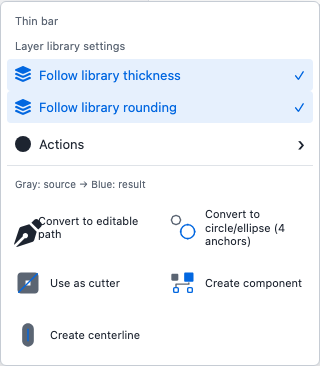
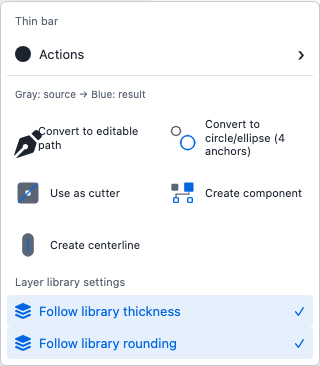
Initialize centerline width from source and prioritize Actions

diff --git a/src/shape-centerline.js b/src/shape-centerline.js
@@ -43,19 +43,45 @@ export function recoverBar(source,core) {
   return {node:{op:'union',name:'Recovered bar centerline',children:lines},stroke:Math.round(widths[0]*1e6)/1e6};
 }
 
+// Measure ink across inward boundary normals, stopping at the first opposing
+// boundary. This estimates local thickness, not the overall bounding-box size.
+export function estimateSourceWidth(source,core) {
+  const resolved=core.resolve(source)[0];if(resolved?.error||!resolved?.d)return null;
+  const ink=new paper.CompoundPath({pathData:resolved.d,insert:false}),widths=[];
+  try {
+    const contours=ink.children.filter(p=>p.closed&&p.length>1e-6);if(!contours.length||contours.length>64)return null;
+    const reach=Math.hypot(ink.bounds.width,ink.bounds.height)*2,epsilon=Math.max(1e-5,reach*1e-6),samples=Math.max(8,Math.min(64,Math.floor(512/contours.length)));
+    for(const contour of contours)for(let i=0;i<samples;i++) {
+      const at=contour.length*(i+.5)/samples,point=contour.getPointAt(at),normal=contour.getNormalAt(at);if(!normal||normal.isZero())continue;
+      for(const sign of [1,-1]) {
+        const direction=normal.normalize().multiply(sign);if(!ink.contains(point.add(direction.multiply(epsilon))))continue;
+        const ray=new paper.Path.Line({from:point,to:point.add(direction.multiply(reach)),insert:false});
+        try{const distances=ray.getIntersections(ink).map(hit=>hit.point.subtract(point).dot(direction)).filter(d=>d>epsilon*2).sort((a,b)=>a-b),width=distances[0];
+          if(Number.isFinite(width)&&ink.contains(point.add(direction.multiply(width/2))))widths.push(width);
+        }finally{ray.remove();}
+        break;
+      }
+    }
+    if(widths.length<8)return null; widths.sort((a,b)=>a-b);
+    const stroke=Math.round(widths[Math.floor(widths.length/2)]*1e6)/1e6;
+    if(stroke<.1||stroke>8)return null;
+    return {stroke,variable:widths[Math.floor(widths.length*.75)]-widths[Math.floor(widths.length*.25)]>stroke*.15};
+  }finally{ink.remove();}
+}
+
 export function createShapeCenterline({root,core,getGlyph,apply,status}) {
   const dialog=document.createElement('dialog');dialog.className='import-dialog centerline-dialog';dialog.setAttribute('aria-labelledby','centerlineHeading');root.appendChild(dialog);
-  let source,snapshot,layer,bar;
+  let source,snapshot,layer,bar,measurement;
   const make=(tag,text,parent,attrs={})=>{const el=document.createElement(tag);el.textContent=text;for(const [k,v]of Object.entries(attrs))el.setAttribute(k,v);parent.appendChild(el);return el;};
   make('h2','Create centerline',dialog,{id:'centerlineHeading'});
   make('p','Recover a rounded bar as a stroke, or review an inset contour for other shapes. Adds a new layer; source stays unchanged.',dialog,{id:'centerlineHelp'});dialog.setAttribute('aria-describedby','centerlineHelp');
   const drawings=make('div','',dialog,{class:'review-drawings'}),original=make('div','',drawings,{'aria-label':'Source shape',class:'review-drawing'}),preview=make('div','',drawings,{'aria-label':'Centerline candidate',class:'review-drawing'});
   const methodLabel=make('label','Method',dialog,{class:'studio-field'}),method=make('select','',methodLabel,{'aria-label':'Centerline method'});make('option','Recover rounded bar',method,{value:'bar'});make('option','Inset contour',method,{value:'inset'});method.onchange=()=>{inputs.inset.disabled=method.value==='bar';update();};
-  const inputs={};for(const [key,label,min,max]of [['inset','Inset',0,null],['stroke','Stroke',.1,8]]){const row=make('label',label,dialog,{class:'studio-field'});inputs[key]=make('input','',row,{type:'number',min,step:.01,'aria-label':`Centerline ${key}`});if(max!==null)inputs[key].max=max;inputs[key].onchange=update;}
+  const inputs={};for(const [key,label,min,max]of [['inset','Inset',0,null],['stroke','Stroke',.1,8]]){const row=make('label',label,dialog,{class:'studio-field'});inputs[key]=make('input','',row,{type:'number',min,step:'any','data-scrub-step':.01,'aria-label':`Centerline ${key}`});if(max!==null)inputs[key].max=max;inputs[key].onchange=update;}
   const note=make('p','',dialog,{role:'status'}),buttons=make('div','',dialog,{class:'row'}),cancel=make('button','Cancel',buttons,{type:'button',class:'btn'}),accept=make('button','Add centerline layer',buttons,{type:'button',class:'btn'});
   const settings=()=>({inset:inputs.inset.valueAsNumber,stroke:inputs.stroke.valueAsNumber});
-  function update(){layer=null;accept.disabled=true;try{for(const input of Object.values(inputs))if(!input.checkValidity()||!Number.isFinite(input.valueAsNumber))throw Error('Enter a valid inset and stroke width.');layer=method.value==='bar'?{id:crypto.randomUUID(),name:`${source.name} centerline`,role:source.layers[0].role,color:source.layers[0].color,paint:'stroke',symmetry:false,rounding:0,endRounding:0,strokeWidth:settings().stroke,node:structuredClone(bar.node)}:centerlineLayer(source,core,settings(),crypto.randomUUID());preview.innerHTML=core.toSVG({...source,setStyle:{rounding:0,endRounding:0},symmetry:{rotate:1},layers:[layer]},{mode:'baked',size:192});note.textContent=method.value==='bar'?'Recovered rounded-bar axis. Review stroke width.':'Boundary offset, not a medial-axis trace. Adjust inset and stroke; narrow contours can collapse.';accept.disabled=false;}catch(error){preview.replaceChildren();note.textContent=error.message;}}
+  function update(){layer=null;accept.disabled=true;try{for(const input of Object.values(inputs))if(!input.checkValidity()||!Number.isFinite(input.valueAsNumber))throw Error('Enter a valid inset and stroke width.');layer=method.value==='bar'?{id:crypto.randomUUID(),name:`${source.name} centerline`,role:source.layers[0].role,color:source.layers[0].color,paint:'stroke',symmetry:false,rounding:0,endRounding:0,strokeWidth:settings().stroke,node:structuredClone(bar.node)}:centerlineLayer(source,core,settings(),crypto.randomUUID());preview.innerHTML=core.toSVG({...source,setStyle:{rounding:0,endRounding:0},symmetry:{rotate:1},layers:[layer]},{mode:'baked',size:192});note.textContent=(bar?`Detected source width ${bar.stroke}. `:measurement?`Estimated source width ${measurement.stroke}${measurement.variable?' (variable thickness)':''}; review the fit. `:'Source width could not be estimated; set stroke manually. ')+(method.value==='bar'?'Recovered rounded-bar axis.':'Boundary offset, not a medial-axis trace; narrow contours can collapse.')+' New layer is excluded from library line width.';accept.disabled=false;}catch(error){preview.replaceChildren();note.textContent=error.message;}}
   cancel.onclick=()=>dialog.close();
   accept.onclick=()=>{try{if(JSON.stringify(getGlyph())!==snapshot)throw Error('Artwork changed; reopen Create centerline.');if(!layer)throw Error('Recompute a valid candidate first.');apply(layer);dialog.close();status('Added an independent centerline layer. Source unchanged; hide the source layer to inspect it. Undo removes the candidate.');}catch(error){note.textContent=error.message;accept.disabled=true;}};
-  return {open(selection){source=centerlineSource(getGlyph(),selection,core);if(!source)throw Error('Select a visible filled shape.');delete source.referenceImage;snapshot=JSON.stringify(getGlyph());const width=getGlyph().strokeOverride??getGlyph().setStyle?.thickness??getGlyph().weight??1.2;bar=recoverBar(source,core);method.querySelector('[value=bar]').disabled=!bar;method.value=bar?'bar':'inset';inputs.inset.disabled=!!bar;inputs.inset.value=width/2;inputs.stroke.value=bar?.stroke??width;original.innerHTML=core.toSVG(source,{mode:'baked',mono:true,size:192});update();dialog.showModal();},dispose(){dialog.remove();}};
+  return {open(selection){source=centerlineSource(getGlyph(),selection,core);if(!source)throw Error('Select a visible filled shape.');delete source.referenceImage;snapshot=JSON.stringify(getGlyph());const width=getGlyph().strokeOverride??getGlyph().setStyle?.thickness??getGlyph().weight??1.2;bar=recoverBar(source,core);measurement=bar?null:estimateSourceWidth(source,core);method.querySelector('[value=bar]').disabled=!bar;method.value=bar?'bar':'inset';inputs.inset.disabled=!!bar;const detected=bar?.stroke??measurement?.stroke??width;inputs.inset.value=detected/2;inputs.stroke.value=detected;original.innerHTML=core.toSVG(source,{mode:'baked',mono:true,size:192});update();dialog.showModal();},dispose(){dialog.remove();}};
 }

diff --git a/src/editor.js b/src/editor.js
@@ -1910,7 +1910,8 @@ function organizeActionsMenu() {
   const legend=document.createElement('div');legend.className='action-legend';legend.textContent='Gray: source → Blue: result';submenu.appendChild(legend);
   for(const child of actions){if(child.tagName==='BUTTON')child.classList.add('visual-action');submenu.appendChild(child);}
   toggle.onclick=()=>{const open=submenu.hidden;submenu.hidden=!open;toggle.setAttribute('aria-expanded',String(open));if(open){const bounds=itemMenu.getBoundingClientRect();itemMenu.style.top=Math.max(8,Math.min(bounds.top,window.innerHeight-bounds.height-8))+'px';submenu.querySelector('button:not(:disabled)')?.focus();}};
-  itemMenu.append(toggle,submenu);
+  itemMenu.insertBefore(toggle,itemMenu.firstElementChild.nextSibling);
+  itemMenu.insertBefore(submenu,toggle.nextSibling);
 }
 const treeKey = selection => `${selection.l}:${selection.p === null ? 'layer' : selection.p.join('.')}`;
 const treeRow = selection => root.querySelector(`[data-tree-key="${treeKey(selection)}"]`);
@@ -2471,6 +2472,7 @@ function field(parent, label, value, onInput, opts = {}) {
   if (opts.min != null) inp.min = opts.min;
   if (opts.max != null) inp.max = opts.max;
   if (opts.key) inp.dataset.key = opts.key;
+  if (opts.scrubStep) inp.dataset.scrubStep=opts.scrubStep;
   w.appendChild(inp); parent.appendChild(w); return inp;
 }
 function sub(parent, text, btns) { const d = document.createElement('div'); d.className = 'sub'; d.textContent = text; if (btns) btns.forEach(b => d.appendChild(b)); parent.appendChild(d); return d; }
@@ -2658,9 +2660,10 @@ function renderInspector() {
     field(g, 'role', L.role || 'primary', v => { L.role = v; }, { options: ['primary', 'secondary', 'accent'] });
     field(g, 'custom color (#hex)', L.color || '', value => { if (/^#[0-9a-f]{3}(?:[0-9a-f]{3})?$/i.test(value)) L.color = value; else if (!value.trim()) delete L.color; }, { text: true });
     field(g, 'paint', L.paint || 'stroke', v => { L.paint = v; }, { options: ['stroke', 'fill', 'both'] });
+    if(L.paint!=='fill')field(g,'exclude from library line width',L.strokeWidth!=null,v=>{if(v)L.strokeWidth=strokeWeight(S.glyph);else delete L.strokeWidth;},{check:true});
     if(L.rounding!=null)field(g,'layer corner rounding',L.rounding,v=>{L.rounding=v;},{min:0,step:.1});
     if(L.endRounding!=null)field(g,'layer end rounding',L.endRounding,v=>{L.endRounding=v;},{min:0,step:.1});
-    if(L.strokeWidth!=null)field(g,'layer stroke width',L.strokeWidth,v=>{L.strokeWidth=v;},{min:.1,max:8,step:.1});
+    if(L.strokeWidth!=null)field(g,'layer stroke width',L.strokeWidth,v=>{L.strokeWidth=v;},{min:.1,max:8,step:'any',scrubStep:.01});
     field(g, 'opacity', L.opacity == null ? 1 : L.opacity, v => { L.opacity = Math.max(0, Math.min(1, v)); }, { step: 0.05 });
     field(g, 'visible', L.visible !== false, v => { L.visible = v; }, { check: true });
     field(g, 'uses glyph symmetry', L.symmetry !== false, v => { if (v) delete L.symmetry; else L.symmetry = false; }, { check: true });
@@ -3525,7 +3528,7 @@ appStudio=createAppIconStudio({root:$('appIconStudio'),getGlyph:()=>S.glyph,getL
 const repairLocked=[...root.querySelectorAll('#componentsPanel,.library-panel,.set-settings,.io,#appIconStudio,#drawingMode,#exportSize,#hdrEdited,#revertBtn')];
 function repairWorking(glyph){S.glyph=clone(glyph);S.sel=[];S.selectedAnchors=[];S.anchor=null;S.sourceAnchor=null;S.iso=null;penDraft=null;penHover=null;penCloseHover=null;S.rt.weight=strokeWeight(S.glyph);S.rt.cap=S.glyph.strokeCap||'round';S.rt.join=S.glyph.strokeJoin||'round';}
 const fusionDialog=createFusionDialog({root,core,getGlyph:()=>S.glyph,apply:(selection,recipe)=>{getNode({...selection,p:selection.p||[]}).fusion=recipe;commit();refresh(true);renderLibrary();},status});
-const shapeCenterline=createShapeCenterline({root,core,getGlyph:()=>S.glyph,apply:layer=>{S.glyph.layers.push(layer);S.sel=[{l:S.glyph.layers.length-1,p:[]}];S.anchor=null;S.selectedAnchors=[];commit();refresh(true);},status});
+const shapeCenterline=createShapeCenterline({root,core,getGlyph:()=>S.glyph,apply:layer=>{S.glyph.layers.push(layer);S.sel=[{l:S.glyph.layers.length-1,p:null}];S.anchor=null;S.selectedAnchors=[];commit();refresh(true);},status});
 guidedRepair=createGuidedRepair({root,core,getGlyph:()=>S.glyph,getLibrary:()=>S.lib,getStyle:()=>S.libraryProperties?tokenStyle(S.libraryProperties):null,
   enter:glyph=>{repairContext={name:S.glyph.name,lastSnap,tool:S.tool,rt:clone(S.rt),original:S.show.original};closeGroupReview();root.querySelector('.stage').hidden=false;for(const el of repairLocked)el.inert=true;S.show.original=false;repairWorking(glyph);setTool('direct');setSaveState('draft');},
   leave:name=>{for(const el of repairLocked)el.inert=false;const context=repairContext;repairContext=null;S.show.original=context.original;S.rt=context.rt;lastSnap=context.lastSnap;loadGlyph(Math.max(0,idx(name||context.name)));setTool(context.tool);setSaveState('saved');},

diff --git a/tests/browser/action-language.spec.js b/tests/browser/action-language.spec.js
@@ -20,3 +20,16 @@ test('Actions keyboard entry and Escape return focus; invalid inset cannot publi
 test('a stale per-shape candidate cannot overwrite concurrent edits',async({page})=>{
  await setup(page);await page.locator('[data-tree-key="0:0"]').click({button:'right'});await actions(page);await page.getByRole('menuitem',{name:'Create centerline',exact:true}).click();await page.evaluate(()=>{const w=window.__gw;w.S.glyph.layers[1].node.x1=18;w.commit();w.refresh(true);});await page.getByRole('button',{name:'Add centerline layer',exact:true}).click();await expect(page.getByRole('dialog',{name:'Create centerline',exact:true})).toContainText('Artwork changed');expect(await page.evaluate(()=>window.__gw.S.glyph.layers.length)).toBe(2);expect(await page.evaluate(()=>window.__gw.S.glyph.layers[1].node.x1)).toBe(18);
 });
+test('centerline source width becomes visible excluded layer thickness; Actions comes first in Layers and Canvas menus',async({page})=>{
+ await setup(page);await page.locator('[data-tree-key="0:1"]').click({button:'right'});await expect(page.locator('#itemMenu > button').first()).toHaveAccessibleName('Actions');await actions(page);await page.getByRole('menuitem',{name:'Create centerline',exact:true}).click();
+ expect(Number(await page.getByLabel('Centerline stroke').inputValue())).toBeCloseTo(2.4,5);await expect(page.getByRole('dialog',{name:'Create centerline',exact:true})).toContainText('Detected source width 2.4');await page.getByRole('button',{name:'Add centerline layer',exact:true}).click();
+ await expect(page.getByLabel('layer stroke width',{exact:true})).toHaveValue('2.4');await expect(page.getByLabel('exclude from library line width',{exact:true})).toBeChecked();expect(await page.evaluate(()=>window.__gw.S.glyph.strokeOverride)).toBeUndefined();
+ await page.locator('[data-tree-key="2:layer"]').click({button:'right'});await expect(page.locator('#itemMenu > button').first()).toHaveAccessibleName('Actions');await expect(page.getByRole('menuitemcheckbox',{name:'Follow library thickness',exact:true})).toHaveAttribute('aria-checked','false');await page.keyboard.press('Escape');
+ await page.locator('#setThicknessEnabled').check();await page.locator('#setThickness').fill('3');await page.locator('#setThickness').press('Tab');await expect(page.locator('#gLayers path[stroke-width="2.4"]')).toHaveCount(1);await expect(page.locator('#gLayers path[stroke-width="3"]')).toHaveCount(1);
+ await page.evaluate(()=>{const w=window.__gw;w.S.sel=[{l:0,p:[1]}];w.refresh(true);});await page.locator('#canvas').press('Shift+F10');await expect(page.locator('#itemMenu > button').first()).toHaveAccessibleName('Actions');await page.keyboard.press('Escape');
+ await page.evaluate(()=>window.__gw.flushSaves());await page.reload();await page.waitForFunction(()=>window.__gw?.ready);expect(await page.evaluate(()=>window.__gw.S.glyph.layers[2].strokeWidth)).toBeCloseTo(2.4,5);await page.locator('[data-tree-key="2:layer"]').click();await page.getByLabel('exclude from library line width',{exact:true}).uncheck();await expect(page.locator('#gLayers path[stroke-width="3"]')).toHaveCount(2);await page.locator('#undoBtn').click();await expect(page.locator('#gLayers path[stroke-width="2.4"]')).toHaveCount(1);
+});
+test('inset centerline estimates ring thickness from source instead of inheriting the library weight',async({page})=>{
+ await ready(page);await page.evaluate(async()=>window.__gw.importLibraryText(JSON.stringify([{name:'ring-source',weight:3,layers:[{id:'ring',name:'Ring',paint:'fill',node:{op:'subtract',children:[{shape:'circle',cx:12,cy:12,r:6},{shape:'circle',cx:12,cy:12,r:4.6}]}}]}]),'ring.json','replace'));
+ await page.locator('[data-tree-key="0:"]').click({button:'right'});await actions(page);await page.getByRole('menuitem',{name:'Create centerline',exact:true}).click();await expect(page.getByLabel('Centerline method')).toHaveValue('inset');expect(Number(await page.getByLabel('Centerline stroke').inputValue())).toBeCloseTo(1.4,2);await page.getByRole('button',{name:'Add centerline layer',exact:true}).click();expect(await page.evaluate(()=>window.__gw.S.glyph.layers[1].strokeWidth)).toBeCloseTo(1.4,2);await expect(page.getByLabel('exclude from library line width',{exact:true})).toBeChecked();
+});

diff --git a/tests/shape-centerline.test.js b/tests/shape-centerline.test.js
@@ -1,4 +1,4 @@
-import test from 'node:test';import assert from 'node:assert/strict';import paper from 'paper';import {createGlyphCore} from '../src/glyph-core.js';import {centerlineSource,recoverBar,centerlineLayer} from '../src/shape-centerline.js';import {normalizeGlyph} from '../src/library-io.js';import {layerStyleGlyph} from '../src/stroke-weight.js';import {generateSolid} from '../src/solid-variants.js';
+import test from 'node:test';import assert from 'node:assert/strict';import paper from 'paper';import {createGlyphCore} from '../src/glyph-core.js';import {centerlineSource,recoverBar,centerlineLayer,estimateSourceWidth} from '../src/shape-centerline.js';import {normalizeGlyph} from '../src/library-io.js';import {layerStyleGlyph} from '../src/stroke-weight.js';import {generateSolid} from '../src/solid-variants.js';
 new paper.Project();const core=createGlyphCore(paper);
 const bar={name:'bar',setStyle:{rounding:0},layers:[{id:'bar',name:'Bar',paint:'fill',node:{shape:'rect',x:11.4,y:3,w:1.2,h:18,r:.6}}]};
 test('thin rounded bar recovers one open axis where half-width inset collapses; rejects noncapsule and short circles',()=>{
@@ -13,4 +13,10 @@ test('local width and rounding survive validation and SVG/solid resolution while
  const g=normalizeGlyph({name:'local',weight:3,setStyle:{rounding:1,endRounding:1},layers:[{id:'local',paint:'stroke',strokeWidth:1.2,rounding:0,endRounding:0,node:{shape:'line',x1:4,y1:4,x2:4,y2:20,cap:'round'}},{id:'peer',paint:'stroke',node:{shape:'line',x1:12,y1:4,x2:12,y2:20}}]});
  const svg=core.toSVG(g,{mode:'baked'});assert.match(svg,/stroke-width="1.2"/);assert.match(svg,/stroke-width="3"/);assert.match(core.toSVG(g),/stroke-width:1.2;/);assert.equal(layerStyleGlyph(g,g.layers[0]).setStyle.rounding,0);
  const solo={...g,layers:[g.layers[0]]},solid=core.resolve(generateSolid(solo,core))[0];const p=new paper.CompoundPath(solid.d);assert.ok(Math.abs(p.bounds.width-1.2)<.02);p.remove();assert.throws(()=>normalizeGlyph({...g,layers:[{...g.layers[0],strokeWidth:NaN}]}));
+});
+test('source width measures ink across opposing boundaries rather than library weight or overall diameter',()=>{
+ const source={name:'ring',weight:3,layers:[{id:'ring',paint:'fill',node:{op:'subtract',children:[{shape:'circle',cx:12,cy:12,r:6},{shape:'circle',cx:12,cy:12,r:4.6}]}}]},before=JSON.stringify(source),count=paper.project.activeLayer.children.length;
+ const measured=estimateSourceWidth(source,core);assert.ok(Math.abs(measured.stroke-1.4)<.005);assert.equal(measured.variable,false);assert.equal(JSON.stringify(source),before);
+ const rect={...source,layers:[{id:'bar',paint:'fill',node:{shape:'rect',x:11,y:3,w:2,h:18,transform:{rotate:30}}}]};assert.ok(Math.abs(estimateSourceWidth(rect,core).stroke-2)<.005);
+ assert.equal(estimateSourceWidth({...source,layers:[{id:'empty',paint:'fill',node:{op:'union',children:[]}}]},core),null);assert.equal(paper.project.activeLayer.children.length,count);
 });

diff --git a/docs/actions-and-centerlines.md b/docs/actions-and-centerlines.md
@@ -1,8 +1,8 @@
 # Shape actions and library exceptions
 
-Right-click a shape on the canvas or in Layers, then open **Actions**. The same selection-aware commands appear in both places. Original diagrams show the starting geometry in gray and the result in the accent color; labels remain visible. Arrow Right opens Actions; Arrow Left or Escape closes it and returns focus. Undo, selection commands and layer library settings stay in the first menu.
+Right-click a shape on the canvas or in Layers, then open **Actions**, the first command below the selection heading. The same selection-aware commands appear in both places. Original diagrams show the starting geometry in gray and the result in the accent color; labels remain visible. Arrow Right opens Actions; Arrow Left or Escape closes it and returns focus. Undo, selection commands and layer library settings stay in the first menu.
 
-**Create centerline** is available for one visible filled shape or group. Review the source and candidate, then choose **Add centerline layer**. Rounded bars are recognized from their resolved capsule boundaries, even when imported as paths, and recover a single open axis with the original bar width. Other shapes use **Inset contour**, explicitly a boundary-offset candidate rather than an inferred medial axis. Inset and stroke can be adjusted; collapsed candidates cannot be applied. Cancel preserves the artwork. Applying adds an independent named stroke layer with symmetry/placement baked once and local width/rounding; source geometry and component links remain unchanged. Hide the original layer to inspect the new layer by itself. Undo removes the candidate; editable exports and reload retain it.
+**Create centerline** is available for one visible filled shape or group. Review the source and candidate, then choose **Add centerline layer**. Rounded bars are recognized from their resolved capsule boundaries, even when imported as paths, and recover a single open axis with the original bar width. Other shapes use **Inset contour**, explicitly a boundary-offset candidate rather than an inferred medial axis. Stroke initializes from the detected bar width or a sampled estimate across opposing source boundaries. Nonuniform estimates are labeled for review; when width cannot be estimated safely, set it manually. Inset and stroke can be adjusted; collapsed candidates cannot be applied. Cancel preserves the artwork. Applying adds an independent named stroke layer with symmetry/placement baked once and local width/rounding; source geometry and component links remain unchanged. The new layer is selected immediately, exposing its calculated **layer stroke width** with **exclude from library line width** checked. Library thickness changes leave it unchanged; uncheck that setting or re-enable Follow library thickness to resume inheritance. Hide the original layer to inspect the new layer by itself. Undo removes the candidate; editable exports and reload retain it.
 
 The **Library settings** context section controls the selected object's entire layer. Disable **Follow library thickness** or **Follow library rounding** to capture the current values locally. Re-enable to resume icon/library inheritance. Layer-local widths take priority over icon overrides; icon overrides take priority over library thickness. A diamond indicator marks customized layers and library icons containing overrides. Local width and corner/end rounding can be edited in the layer inspector. Local values apply in canvas, isolation, previews, SVG/raster output and generated solid geometry.
 
